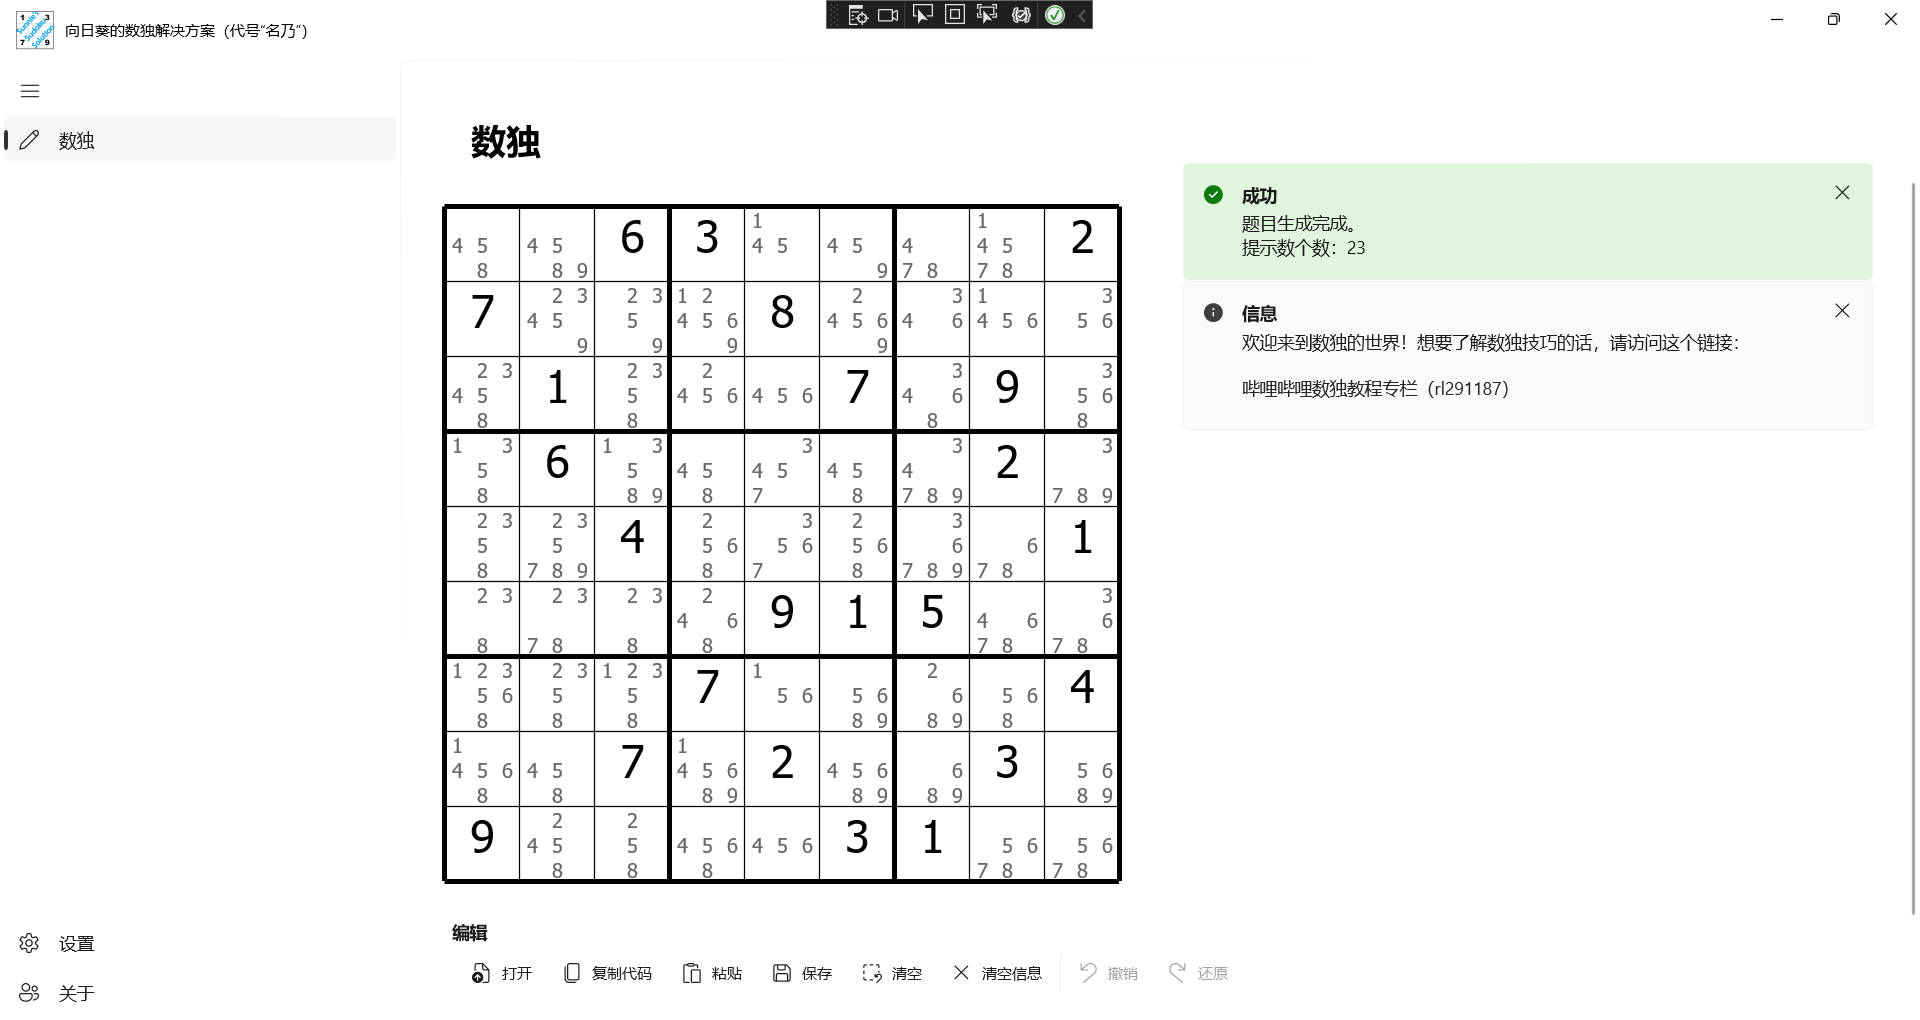
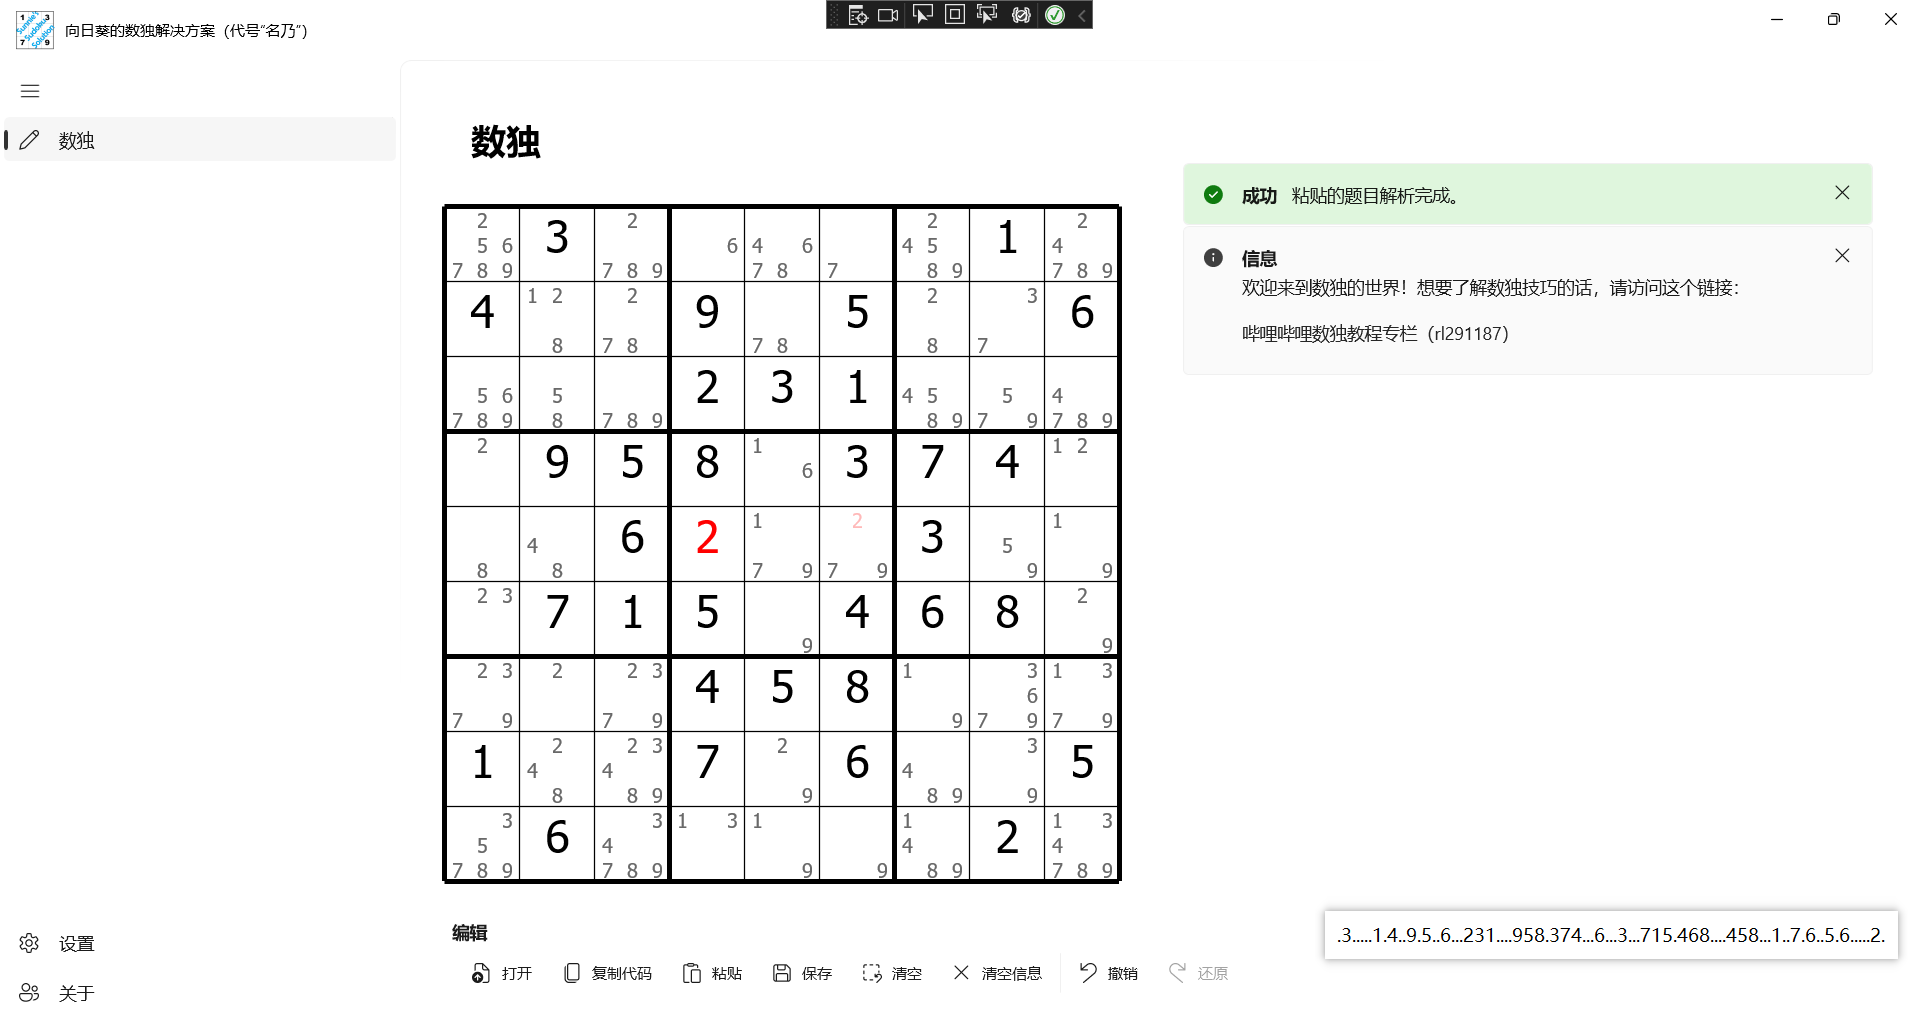
Fix #195.

diff --git a/src/Sudoku.UI/Drawing/Shapes/SudokuGrid.cs b/src/Sudoku.UI/Drawing/Shapes/SudokuGrid.cs
@@ -1,4 +1,6 @@
-namespace Sudoku.UI.Drawing.Shapes;
+using static Sudoku.Constants.Tables;
+
+namespace Sudoku.UI.Drawing.Shapes;
 
 /// <summary>
 /// Defines a sudoku grid.
@@ -202,9 +204,15 @@ public sealed class SudokuGrid : DrawingElement
 		{
 			// Set the new grid and update the view.
 			_grid = value;
+
+			// Clear the wrong status for all cell digits and candidate digits.
+			Array.ForEach(_cellDigits, cellDigit => cellDigit.IsGiven = false);
+			Array.ForEach(_candidateDigits, candidateDigit => candidateDigit.WrongDigitMask = 0);
+
+			// Update the view.
 			UpdateView();
 
-			// The operation must clear two stacks.
+			// The operation must clear two stacks, and trigger the handler '_undoRedoStepsUpdatedCallback'.
 			_undoSteps.Clear();
 			_redoSteps.Clear();
 			_undoRedoStepsUpdatedCallback?.Invoke();
@@ -362,7 +370,9 @@ public sealed class SudokuGrid : DrawingElement
 					if (_userPreference.EnableDeltaValuesDisplaying
 						&& _grid.ResetGrid.Solution is { IsUndefined: false } solution)
 					{
-						_candidateDigits[i].WrongDigitMask = (short)(511 & ~candidateMask & solution[i]);
+						// Checks the wrong digits.
+						// Wrong digits are the correct digits in the solution but they have been eliminated.
+						_candidateDigits[i].WrongDigitMask = (short)(511 & ~candidateMask & 1 << solution[i]);
 					}
 
 					break;
@@ -381,12 +391,34 @@ public sealed class SudokuGrid : DrawingElement
 					// Checks the correctness of the digit.
 					// If the digit is wrong, we should display it using a different color
 					// if enabled the delta view.
-					if (_userPreference.EnableDeltaValuesDisplaying
-						&& _grid.ResetGrid.Solution is { IsUndefined: false } solution
-						&& solution[i] != digit)
+					if (_userPreference.EnableDeltaValuesDisplaying)
 					{
-						_cellDigits[i].IsGiven = null;
-						_candidateDigits[i].WrongDigitMask = 0;
+						if (_grid.ResetGrid.Solution is { IsUndefined: false } solution)
+						{
+							// For unique-solution puzzle, we should check both duplicate digits
+							// and wrong digits different with the solution.
+							if (solution[i] != digit)
+							{
+								_cellDigits[i].IsGiven = null;
+								_candidateDigits[i].WrongDigitMask = 0;
+							}
+						}
+						else
+						{
+							// For multiple- and no- solution puzzle, we should check only duplicate digits.
+							foreach (int cell in PeerMaps[i] - _grid.EmptyCells)
+							{
+								if (_grid[cell] == _grid[i] && _grid.GetStatus(i) != CellStatus.Given)
+								{
+									// Duplicate.
+									// Here we should report the duplicate digit.
+									_cellDigits[i].IsGiven = null;
+									_candidateDigits[i].WrongDigitMask = 0;
+
+									break;
+								}
+							}
+						}
 					}
 
 					break;

diff --git a/src/Sudoku.UI/Drawing/Shapes/CandidateDigit.cs b/src/Sudoku.UI/Drawing/Shapes/CandidateDigit.cs
@@ -73,13 +73,12 @@ internal sealed class CandidateDigit : DrawingElement
 		}.WithRowDefinitionsCount(3).WithColumnDefinitionsCount(3);
 		for (byte digit = 0; digit < 9; digit++)
 		{
-			bool containsTheDigit = (candidateMask >> digit & 1) != 0;
 			var digitBlock = new TextBlock
 			{
 				Text = (digit + 1).ToString(),
 				FontFamily = new(_userPreference.CandidateFontName),
 				FontSize = _userPreference.CandidateFontSize,
-				Visibility = containsTheDigit ? Visibility.Visible : Visibility.Collapsed,
+				Visibility = ((candidateMask | wrongDigitMask) >> digit & 1) != 0 ? Visibility.Visible : Visibility.Collapsed,
 				TextAlignment = TextAlignment.Center,
 				HorizontalTextAlignment = TextAlignment.Center,
 				Foreground = new SolidColorBrush(
@@ -135,8 +134,8 @@ internal sealed class CandidateDigit : DrawingElement
 
 			for (byte digit = 0; digit < 9; digit++)
 			{
-				bool containsTheDigit = (value >> digit & 1) != 0;
-				_digitBlocks[digit].Visibility = containsTheDigit ? Visibility.Visible : Visibility.Collapsed;
+				_digitBlocks[digit].Visibility =
+					((value | _wrongDigitMask) >> digit & 1) != 0 ? Visibility.Visible : Visibility.Collapsed;
 			}
 		}
 	}
@@ -157,9 +156,13 @@ internal sealed class CandidateDigit : DrawingElement
 
 			for (byte digit = 0; digit < 9; digit++)
 			{
-				bool containsTheDigit = (value >> digit & 1) != 0;
-				_digitBlocks[digit].Foreground = new SolidColorBrush(
-					containsTheDigit ? _userPreference.CandidateDeltaColor : _userPreference.CandidateColor);
+				ref var current = ref _digitBlocks[digit];
+				current.Visibility =
+					((_candidateMask | value) >> digit & 1) != 0 ? Visibility.Visible : Visibility.Collapsed;
+				current.Foreground = new SolidColorBrush(
+					(_wrongDigitMask >> digit & 1) != 0
+						? _userPreference.CandidateDeltaColor
+						: _userPreference.CandidateColor);
 			}
 		}
 	}
